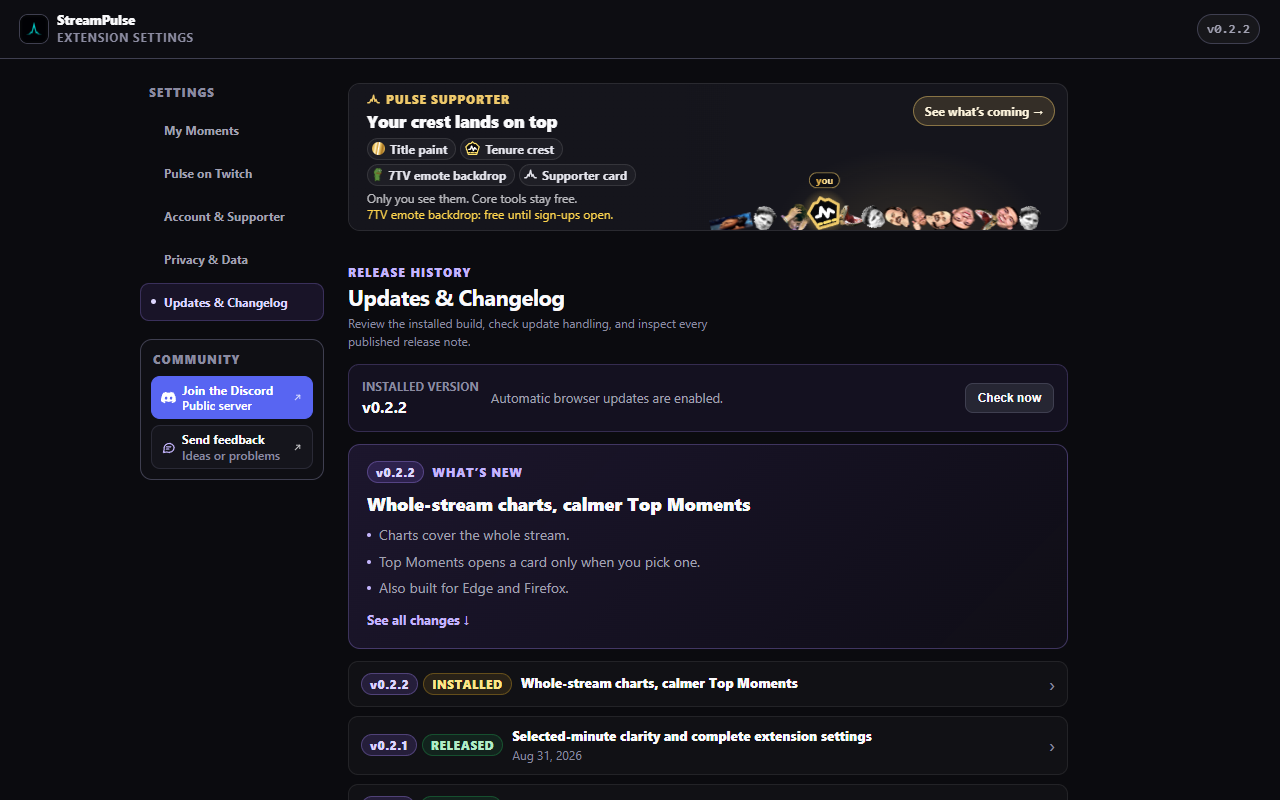
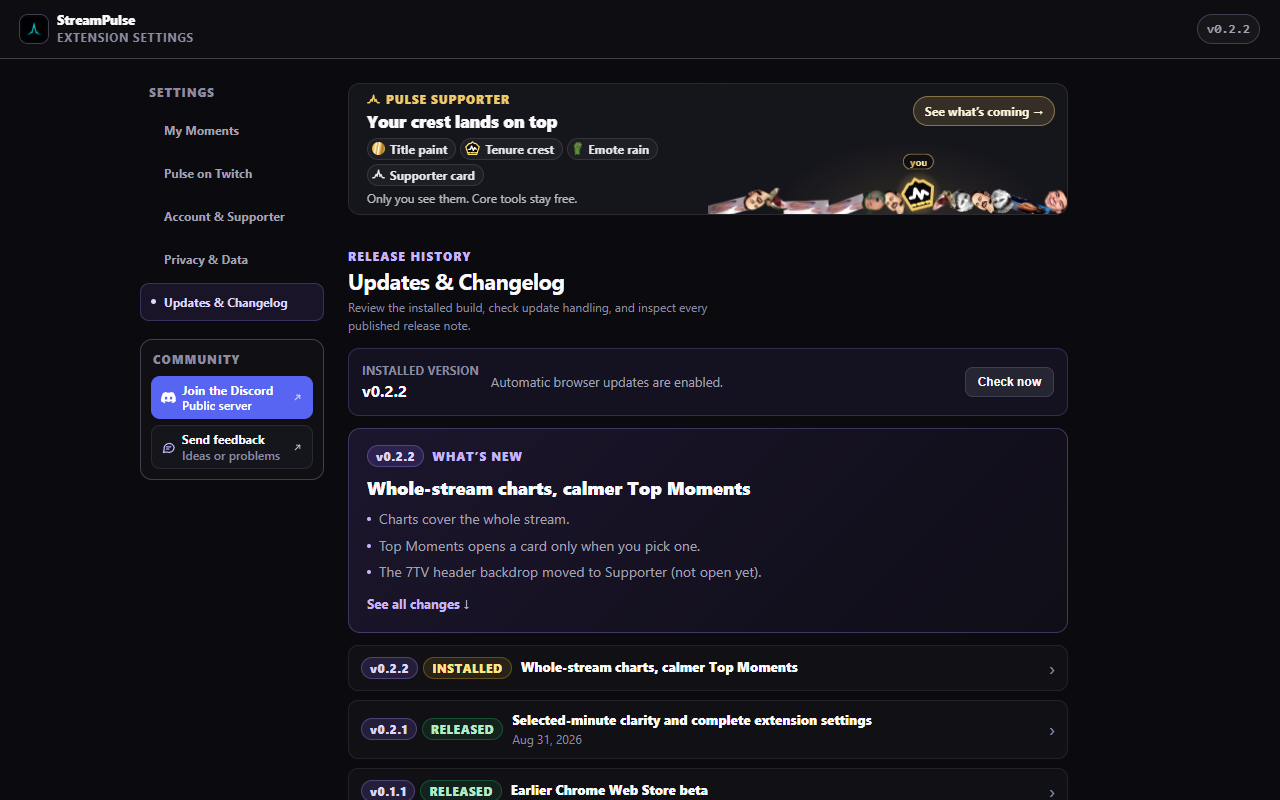
store(cws): retake frame 5 after the emote rain revert
The frame 5 added in 03abddcc (05-settings-updates.png) was taken before the
backdrop revert (eb55ca40). Its Supporter banner still showed the withdrawn
"7TV emote backdrop" chip and the amber "free until sign-ups open" line.

This retake used the repo's store-screenshot spec ('05 settings: release
notes and community links'), headless Chromium at 1280x800, run against a
store-target build of this branch (EXTENSION_TARGET=cws, 0ef5e680, so there
is no Developer section). Checked by eye:
- Supporter banner: master's chips (Title paint, Tenure crest, Emote rain,
  Supporter card), no amber line, "Only you see them. Core tools stay free."
- What's new: 0.2.2, with the third highlight "The 7TV header backdrop moved
  to Supporter (not open yet)."
- Community card: Join the Discord / Public server and Send feedback / Ideas
  or problems, one line each.

manifest.json gets the new generatedAt; nothing else in it changed. Frames
01-04 are untouched (they are recaptured at the release commit). The README
and listing doc give the new retake date.

Changed region(s): [[0.25, 0.3125, 0.8438, 1.0], [0.5312, 0.1875, 0.8438, 0.3125], [0.2812, 0.1562, 0.5, 0.2812]]

diff --git a/store/cws/README.md b/store/cws/README.md
@@ -94,7 +94,8 @@ common reject / blank-toolbar failure mode. `icons:cws` asserts PNG color type 6
 Frames 01-04 were regenerated 2026-10-09 from the extension RC (all 0.2.2 PRs
 merged locally) with its development-target `dist/`, the only target the
 mocked Twitch harness runs (the panel code is the store build's). Frame 05 was
-retaken 2026-10-11 from the store-target (`EXTENSION_TARGET=cws`) settings
+retaken 2026-10-12 (after the emote rain revert: master's Supporter banner
+chips, no amber line) from the store-target (`EXTENSION_TARGET=cws`) settings
 page of the 0.2.2 polish, so it has no Developer section: settings no longer
 has a Help & Feedback section, so it shows Updates & Changelog with the What's
 new card and the Community card (Join the Discord, Send feedback). The 0.2.2

diff --git a/docs/pulse-extension/chrome-web-store-listing.md b/docs/pulse-extension/chrome-web-store-listing.md
@@ -110,8 +110,9 @@ settings, and settings with release notes and the Community links) come from
 the mocked Twitch fixture (synthetic channel, no real streamer or email) by
 `tests/e2e/specs/cws-extension-screenshots.mocked.spec.ts`; see
 `store/cws/README.md` for which build each frame used. Mocked captures are not
-live evidence. Frame 5 was retaken on 2026-10-11 because settings no longer
-has a Help & Feedback section; frames 1-4 predate the 2026-10-11 polish, so
+live evidence. Frame 5 was retaken on 2026-10-12 because settings no longer
+has a Help & Feedback section and the Supporter banner is back to master's
+chips; frames 1-4 predate the 2026-10-11 polish, so
 recapture all five from the package `dist/` before the 0.2.2 upload.
 
 ---
